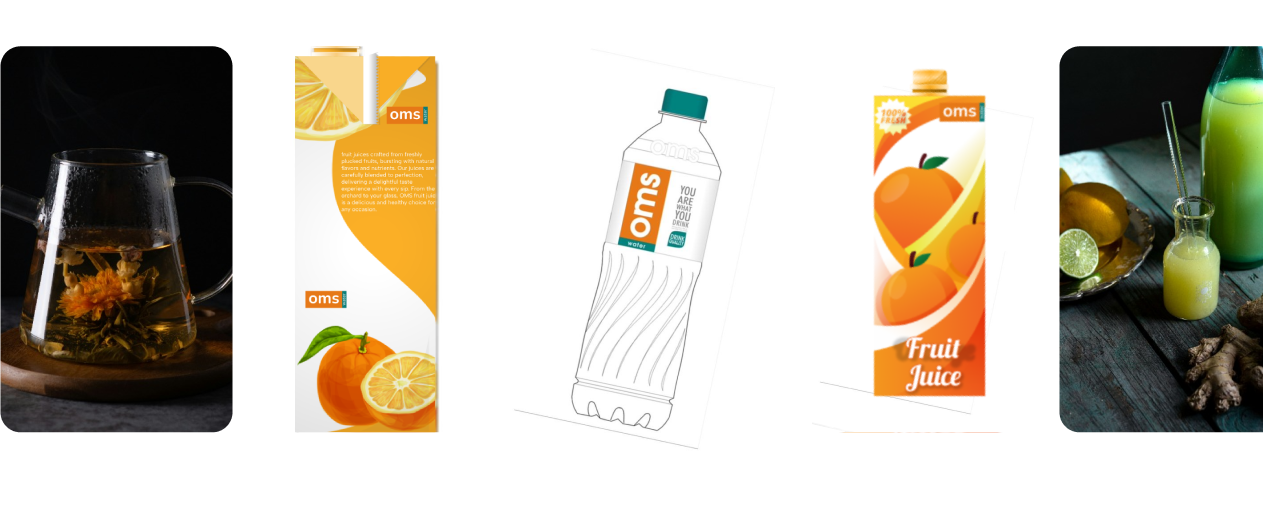
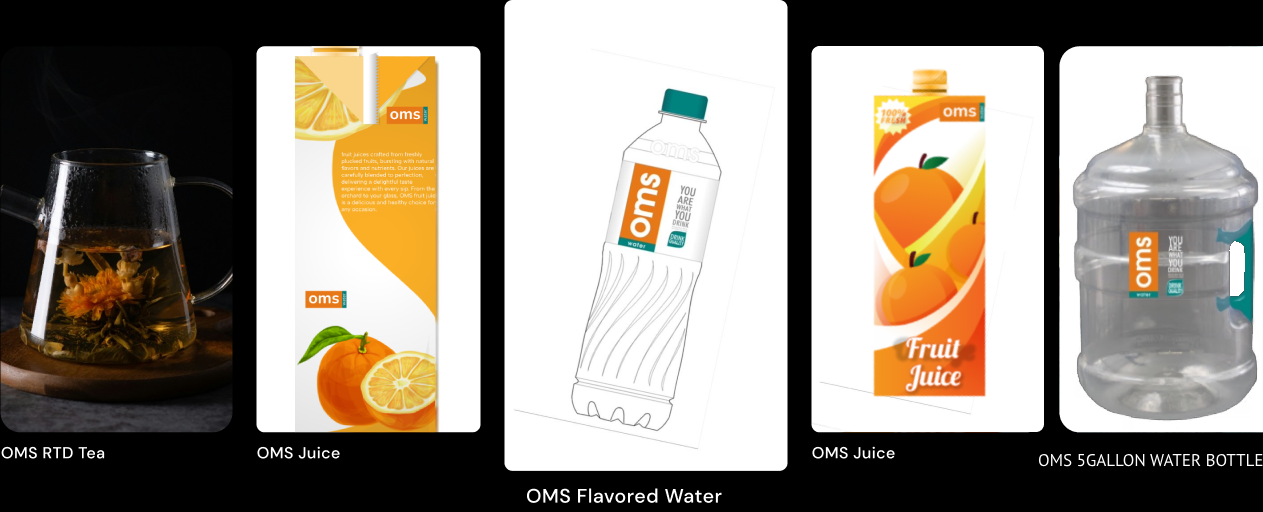
added 500 gallon bottle water and about-information

diff --git a/public/index.html b/public/index.html
@@ -106,10 +106,10 @@
         <p class="md:leading-10" data-aos="fade-in" data-aos-delay="300" data-aos-duration="800">
           OMS Beverages is conceptualized as an automated beverage manufacturing plant based in Ikorodu, Lagos Nigeria, encompassing capacities for
           end-to-end processing and packaging of beverages from varied forms of water to juice drinks and ready-to-drink-tea (RTD). OMS Beverages is
-          conceptualized as an automated beverage manufacturing plant based in Ikorodu, Lagos Nigeria, encompassing capacities for end-to-end
-          processing and packaging of beverages from varied forms of water to juice drinks and ready-to-drink-tea (RTD).
+          structured to be a multi-layered beverage production facility with a capacity of 20,000 bottles per hour, we are designed to provide high
+          quality product offerings into the Nigeria market and the neighbouring countries to Nigeria.
         </p>
-        <a href="#" class="button block mx-auto w-fit my-3 md:my-7">Read more</a>
+        <a href="./about.html" class="button block mx-auto w-fit my-3 md:my-7">Read more</a>
       </div>
       <div class="h-[400px]">
         <img src="./assets/factory.png" class="h-full md:container mx-auto md:rounded-[40px] object-cover object-center-bottom" alt="" srcset="" />
@@ -228,7 +228,7 @@
             >
               <div class="col-span-1 max-lg:mx-auto max-lg:max-w-[400px]">
                 <div class="p-10 border border-[#493E3E] rounded-t-[16px] border-b-0 lg:hidden">
-                  <img src="./assets/home/water.png" class="w-full mx-auto" alt="" srcset="" />
+                  <img src="./assets/home/water.gif" class="w-full mx-auto" alt="" srcset="" />
                 </div>
                 <div class="bg-white md:border border-[#E5E5E5] lg:h-full md:px- ps-10 pe-3 py-10 rounded-[8px] desktop-delay" data-aos="fade-up">
                   <div>
@@ -239,12 +239,19 @@
                       OMS FLAVOURED WATER
                     </h1>
                     <p class="leading-5 md:leading-6 mb-3">Cleanly refined, high quality water that comes in four flavours:</p>
-                    <ul class="text-sm md:text-base list-disc ps-4 md:space-y-1">
+                    <ul class="text-sm md:text-base list-disc ps-4 md:space-y-1 mb-2">
                       <li>Orange</li>
                       <li>Strawberry</li>
                       <li>Vanilla</li>
                       <li>Lemon & Lime</li>
                     </ul>
+                    <h1>
+                      our 5GALLON WATER BOTTLE has a distinctive handle and compatible cap that rightly fits into existing water dispensing machines
+                    </h1>
+                    <!-- <h1>
+                      We have the PET bottled table water which comes in 3-major sizes (40cl, 60cl & 1.5L bottles) and the 5GALLON WATER BOTTLE with a
+                      distinctive handle and compatible cap that rightly fits into existing water dispensing machines
+                    </h1> -->
                   </div>
                 </div>
               </div>
@@ -323,7 +330,7 @@
           <div
             data-aos="fade-up"
             data-aos-duration="700"
-            class="col-span-1 border-[#E5E5E5] border rounded-tl-[150px] lg:rounded-tl-[200px] lg:px-20 px-10 pt-20 pb-10 space-y-10 lg:pt-32 lg:h-[600px]"
+            class="col-span-1 border-[#E5E5E5] border rounded-tl-[150px] lg:rounded-tl-[200px] lg:px-20 px-10 pt-20 pb-10 space-y-5 lg:pt-32 lg:h-[600px]"
           >
             <div class="span-y-3">
               <h1 class="text-xl">Contact Us</h1>
@@ -331,8 +338,12 @@
             </div>
             <ul class="space-y-5">
               <li>
-                <h1 class="font-medium">Our Address</h1>
+                <h1 class="font-medium">Our Office</h1>
                 <p>33b Alfred Rewane Road, Ikoyi, Lagos</p>
+              </li>
+              <li>
+                <h1 class="font-medium">Factory Address</h1>
+                <p>Pipeline line Bustop off Gberigbe Road ikorodu lagos</p>
               </li>
               <li>
                 <h1 class="font-medium">Our Email</h1>

diff --git a/public/assets/main.css b/public/assets/main.css
@@ -730,9 +730,8 @@ p{
   margin-bottom: 0.75rem;
 }
 
-.my-10{
-  margin-top: 2.5rem;
-  margin-bottom: 2.5rem;
+.mb-2{
+  margin-bottom: 0.5rem;
 }
 
 .mb-20{
@@ -761,6 +760,10 @@ p{
 
 .flex{
   display: flex;
+}
+
+.table{
+  display: table;
 }
 
 .grid{
@@ -909,6 +912,12 @@ p{
   margin-bottom: calc(2.5rem * var(--tw-space-y-reverse));
 }
 
+.space-y-12 > :not([hidden]) ~ :not([hidden]){
+  --tw-space-y-reverse: 0;
+  margin-top: calc(3rem * calc(1 - var(--tw-space-y-reverse)));
+  margin-bottom: calc(3rem * var(--tw-space-y-reverse));
+}
+
 .space-y-14 > :not([hidden]) ~ :not([hidden]){
   --tw-space-y-reverse: 0;
   margin-top: calc(3.5rem * calc(1 - var(--tw-space-y-reverse)));
@@ -931,18 +940,6 @@ p{
   --tw-space-y-reverse: 0;
   margin-top: calc(1.75rem * calc(1 - var(--tw-space-y-reverse)));
   margin-bottom: calc(1.75rem * var(--tw-space-y-reverse));
-}
-
-.space-y-20 > :not([hidden]) ~ :not([hidden]){
-  --tw-space-y-reverse: 0;
-  margin-top: calc(5rem * calc(1 - var(--tw-space-y-reverse)));
-  margin-bottom: calc(5rem * var(--tw-space-y-reverse));
-}
-
-.space-y-12 > :not([hidden]) ~ :not([hidden]){
-  --tw-space-y-reverse: 0;
-  margin-top: calc(3rem * calc(1 - var(--tw-space-y-reverse)));
-  margin-bottom: calc(3rem * var(--tw-space-y-reverse));
 }
 
 .overflow-hidden{
@@ -972,10 +969,6 @@ p{
 
 .rounded-tl-\[150px\]{
   border-top-left-radius: 150px;
-}
-
-.rounded-tl-\[50px\]{
-  border-top-left-radius: 50px;
 }
 
 .rounded-tr-\[100px\]{
@@ -1020,6 +1013,11 @@ p{
   border-bottom-color: #E5E5E580;
 }
 
+.bg-\[\#030F1E\]{
+  --tw-bg-opacity: 1;
+  background-color: rgb(3 15 30 / var(--tw-bg-opacity));
+}
+
 .bg-\[\#0A0B0DEB\]\/90{
   background-color: rgb(10 11 13 / 0.9);
 }
@@ -1057,11 +1055,6 @@ p{
 .bg-white{
   --tw-bg-opacity: 1;
   background-color: rgb(255 255 255 / var(--tw-bg-opacity));
-}
-
-.bg-\[\#030F1E\]{
-  --tw-bg-opacity: 1;
-  background-color: rgb(3 15 30 / var(--tw-bg-opacity));
 }
 
 .bg-\[url\(\'\.\/home\/orange\.png\'\)\]{
@@ -1165,16 +1158,6 @@ p{
 .py-8{
   padding-top: 2rem;
   padding-bottom: 2rem;
-}
-
-.py-32{
-  padding-top: 8rem;
-  padding-bottom: 8rem;
-}
-
-.py-40{
-  padding-top: 10rem;
-  padding-bottom: 10rem;
 }
 
 .pb-10{
@@ -1436,10 +1419,6 @@ html{
     max-width: 500px;
   }
 
-  .max-md\:gap-y-14{
-    row-gap: 3.5rem;
-  }
-
   .max-md\:gap-y-20{
     row-gap: 5rem;
   }
@@ -1489,22 +1468,16 @@ html{
          column-gap: 2.5rem;
   }
 
-  .md\:space-y-10 > :not([hidden]) ~ :not([hidden]){
-    --tw-space-y-reverse: 0;
-    margin-top: calc(2.5rem * calc(1 - var(--tw-space-y-reverse)));
-    margin-bottom: calc(2.5rem * var(--tw-space-y-reverse));
-  }
-
-  .md\:space-y-3 > :not([hidden]) ~ :not([hidden]){
-    --tw-space-y-reverse: 0;
-    margin-top: calc(0.75rem * calc(1 - var(--tw-space-y-reverse)));
-    margin-bottom: calc(0.75rem * var(--tw-space-y-reverse));
-  }
-
   .md\:space-y-1 > :not([hidden]) ~ :not([hidden]){
     --tw-space-y-reverse: 0;
     margin-top: calc(0.25rem * calc(1 - var(--tw-space-y-reverse)));
     margin-bottom: calc(0.25rem * var(--tw-space-y-reverse));
+  }
+
+  .md\:space-y-10 > :not([hidden]) ~ :not([hidden]){
+    --tw-space-y-reverse: 0;
+    margin-top: calc(2.5rem * calc(1 - var(--tw-space-y-reverse)));
+    margin-bottom: calc(2.5rem * var(--tw-space-y-reverse));
   }
 
   .md\:rounded-\[20px\]{

diff --git a/public/contact.html b/public/contact.html
@@ -70,7 +70,7 @@
           <div
             data-aos="fade-up"
             data-aos-duration="700"
-            class="col-span-1 border-[#E5E5E5] border rounded-tl-[150px] lg:px-20 lg:rounded-tl-[200px] px-10 pt-20 pb-10 space-y-10 lg:pt-32 lg:h-[600px]"
+            class="col-span-1 border-[#E5E5E5] border rounded-tl-[150px] lg:px-20 lg:rounded-tl-[200px] px-10 pt-20 pb-10 space-y-5 lg:pt-32 lg:h-[600px]"
           >
             <div class="span-y-3">
               <h1 class="text-xl">Contact Us</h1>
@@ -78,8 +78,12 @@
             </div>
             <ul class="space-y-5">
               <li>
-                <h1 class="font-medium">Our Address</h1>
+                <h1 class="font-medium">Our Office</h1>
                 <p>33b Alfred Rewane Road, Ikoyi, Lagos</p>
+              </li>
+              <li>
+                <h1 class="font-medium">Factory Address</h1>
+                <p>Pipeline line Bustop off Gberigbe Road ikorodu lagos</p>
               </li>
               <li>
                 <h1 class="font-medium">Our Email</h1>
